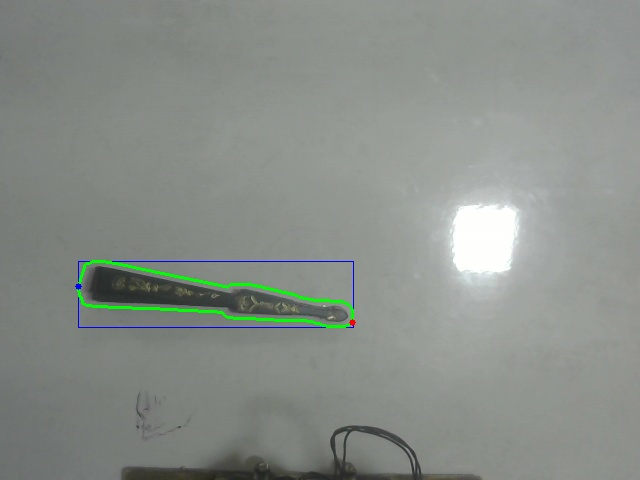
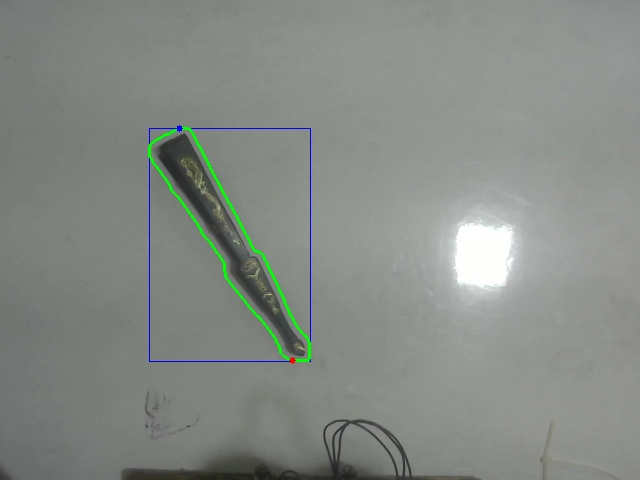
minor changes

diff --git a/do_motion.py b/do_motion.py
@@ -39,8 +39,8 @@ if __name__=='__main__':
 		x1,y1=Equations.pixel_to_real(x1,y1)
 		x2,y2=Equations.pixel_to_real(x2,y2)
 		th1,th2,th3=Equations.get_th(x1,y1,x2,y2)
-		print x1,y1,x2,y2
-		print th1,th2,th3
+		print "coordinates - ", x1,y1,x2,y2
+		print "angles - ", th1,th2,th3
 		if th2>130 or th2<-130 or th3<-130 or th3>130:
 			raise "Mechanical constraint...exiting"
 		
@@ -48,7 +48,27 @@ if __name__=='__main__':
 
 	except ValueError:
 		raise "Out of range...stopping\n"
-
+	
+	'''signs=[
+			[1,1,1],
+			[1,1,-1],
+			[1,-1,1],
+			[1,-1,-1],
+			[-1,1,1],
+			[-1,1,-1],
+			[-1,-1,1],
+			[-1,-1,-1]
+	]
+	
+	dxl.set_position([0,85,0,0,-90,-90,0])
+	
+	for sign in signs:
+		th11,th22,th33=sign[0]*th1,sign[1]*th2,sign[2]*th3
+		dxl.set_position([th11,85,th22,th33,-90,-90,0])
+		print sign
+		raw_input("press enter to for next ")
+	
+	'''
 	motion_set=Read.read_from_file("mot.txt",th1,th2,th3)
 
 	itr=0

diff --git a/Dynamixel.py b/Dynamixel.py
@@ -13,7 +13,6 @@ class Dynamixel:
 			raise IOError("No ports found")
 
 		print "Connecting to ",ports[0]
-
 		self.dxl=pypot.dynamixel.DxlIO(ports[0])
 		self.ids=self.dxl.scan(range(25))
 		print self.ids
@@ -30,7 +29,7 @@ class Dynamixel:
 		#sleep(5)
 		self.set_position( [0,0,-90,-90,90,0,0] )
 
-		raw_input("press enter to continue ")
+		raw_input(__name__ + " press enter to continue ")
 		self.set_speed(70)
 
 	def set_speed(self,speed):
@@ -41,4 +40,5 @@ class Dynamixel:
 
 	def set_position(self,positions):
 		position_dict=dict(zip(self.ids,positions))
+		self.set_speed(70)
 		self.dxl.set_goal_position(position_dict)

diff --git a/Bg_sub.py b/Bg_sub.py
@@ -6,7 +6,7 @@ from skimage.measure import compare_ssim
 class Bg_sub:
 	@staticmethod
 	def bg_sub():
-		cap=cv2.VideoCapture(1)
+		cap=cv2.VideoCapture(2)
 		ret=True
 		while ret:
 			ret,cam=cap.read()
